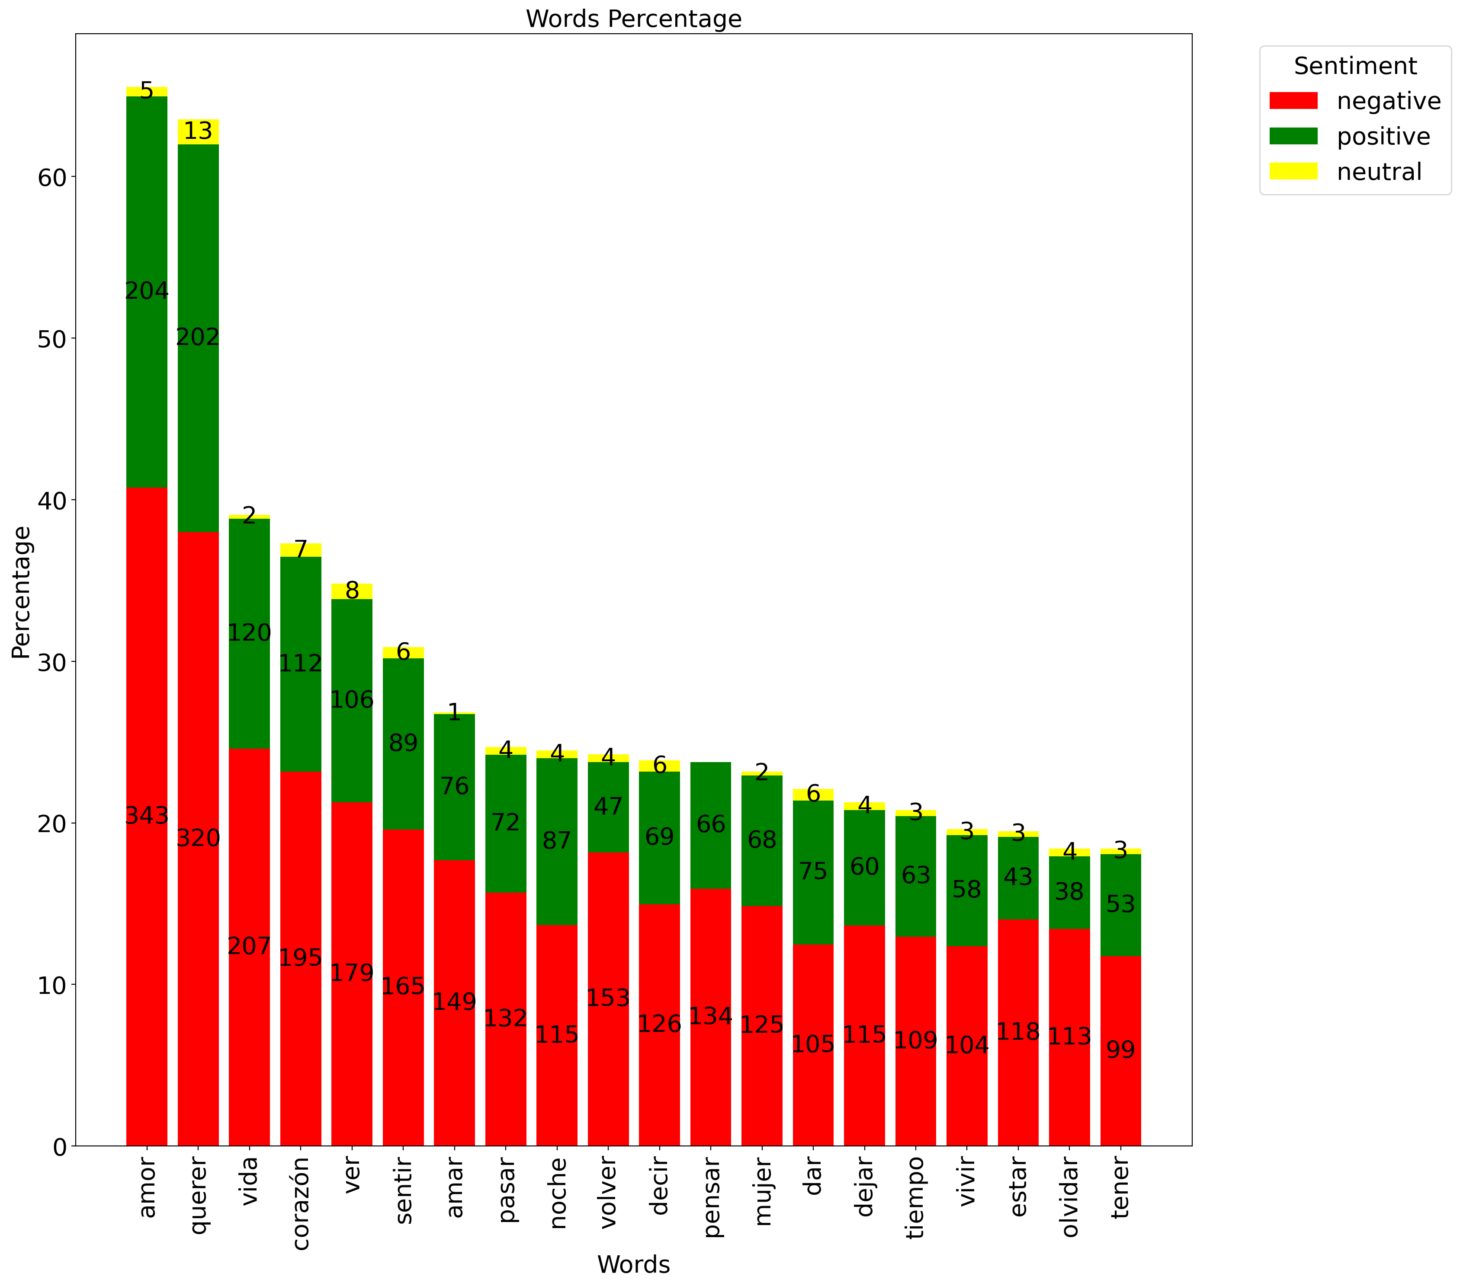
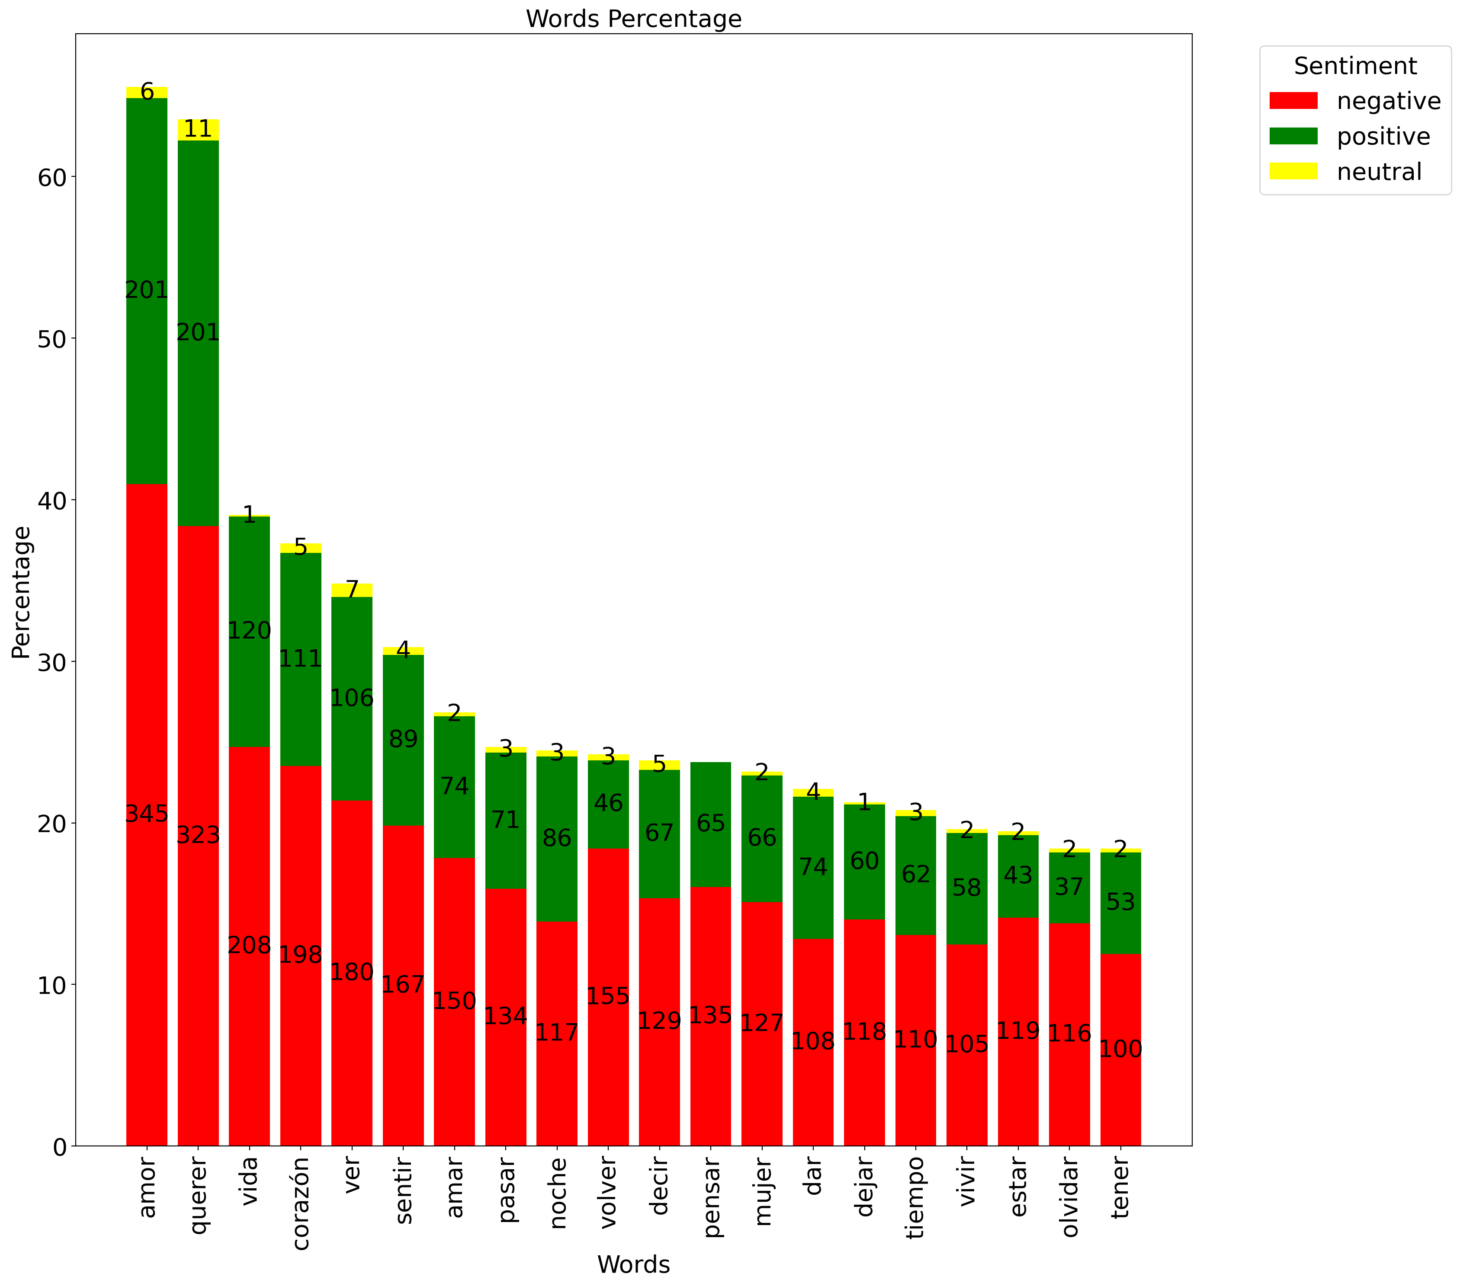
change conclusion

diff --git a/crawler/gui_dir/gui_helper.py b/crawler/gui_dir/gui_helper.py
@@ -38,8 +38,10 @@ def plot_top_percentage(
     else:
         sentiment_colors = top_df["Sentiment"].map(sentiment_colors).fillna('gray')
 
+    fig, ax = plt.subplots()
+
     # Create the bar plot
-    bars = plt.bar(top_df.iloc[:, 0], top_df["Percentage"], color=sentiment_colors)
+    bars = ax.bar(top_df.iloc[:, 0], top_df["Percentage"], color=sentiment_colors)
 
     # Add annotations to each bar
     if annot_bar:
@@ -52,16 +54,15 @@ def plot_top_percentage(
                 ha="center",
                 va="bottom",
             )
-
-    plt.xlabel(x_label)
-    plt.ylabel("Percentage")
-    plt.title(title)
+    ax.set_xlabel(x_label)
+    ax.set_ylabel("Percentage")
+    ax.set_title(title)
 
     if rotation != 0:
         plt.xticks(rotation=rotation)
 
     plt.tight_layout()
-    st.pyplot(plt)
+    st.pyplot(fig)
     plt.close()
 
 
@@ -156,13 +157,14 @@ def plot_top_samples_with_sentiments(
         plt.xticks(rotation=rotation)
 
     plt.tight_layout()
-    st.pyplot(plt)
+    st.pyplot(fig)
     plt.close()
 
 
 def wordcloud_func(df):
-    words_dict = df.set_index("norm_words")["Frequency"].to_dict()
-    wordcloud = WordCloud(width=800, height=400, background_color="white")
+    words_dict = df.set_index("norm_unique_words")["Frequency"].to_dict()
+    #wordcloud = WordCloud(width=800, height=400, background_color="white")
+    wordcloud = WordCloud(background_color="white")
     wordcloud.generate_from_frequencies(words_dict)
     
     fig, ax = plt.subplots()
@@ -245,7 +247,7 @@ def gui_template(
 
     elif analysis_option == "Word":
         st.markdown(
-            '<h4 style="font-size:15px;text-align: center;">Normalized word form distribution</h4>',
+            '<h4 style="font-size:15px;text-align: center;">Normalized unique word form distribution</h4>',
             unsafe_allow_html=True,
         )
         st.write(explain_words)
@@ -266,7 +268,6 @@ def gui_template(
         #    rotation=90,
         #    samples_num=20
         #)
-        print('word:::',word_insight)
         st.subheader("Conclusions")
         st.markdown(word_insight)
 

diff --git a/crawler/conclusions_dir/general_conclusions.py b/crawler/conclusions_dir/general_conclusions.py
@@ -13,8 +13,8 @@ GENERAL_WORD_INSIGHT ="""
         - While the precise meaning of the text may not be immediately apparent from the words alone, the context and sentiment conveyed through key terms like "dejar" ("leave"), "volver" ("return"), "morir" ("die"), and "olvidar" ("forget") suggest an underlying theme of loss — most likely the loss of love. 
         - To fully comprehend the song, in addition to understanding its grammar, one needs to have a familiarity with an average of 55 words.
 
-        Since the following conclusions rely on sentiment allocations and are easier to deduce when sentiment is displayed within the bars, a plot has been added under the "images/general" directory, named "unique_word_with_sentiment."  This plot was pre-generated because creating it in real time would increase processing time by 11.5 times.
-        - When the artists think ("pensar"), the word usually (~80%) exists in songs with a negative sentiment, it may be more beneficial for them to refrain from such contemplation.
+        Since the following conclusions rely on sentiment allocations and are easier to deduce when sentiment is displayed within the bars, a plot has been added under the "images/general" directory, named "unique_word_with_sentiment". This plot was pre-generated because creating it in real time would increase processing time by 11.5 times.
+        - When the artists think ("pensar"), the word usually (~67%) exists in songs with a negative sentiment, it may be more beneficial for them to refrain from such contemplation.
         - The word "vida" ("life") has approximately a 63% probability of being used in songs with negative sentiment. This may suggests that batchata singers have negative emotional themes in their lives.
         """
 

diff --git a/crawler/statistics_dir/statistics.py b/crawler/statistics_dir/statistics.py
@@ -10,14 +10,12 @@ sys.path.append(parent_dir)
 
 
 def general_statistics(df):       
-    try:
-        df.loc[:, "all_artists"] = df["all_artists"].apply(lambda x: eval(x))
-    except (TypeError, NameError, SyntaxError) as e:
-        pass
+    eval_col(df, "all_artists")
+    eval_col(df, "norm_unique_words")
 
     artist_stat, artist_stat_len = calculate_counts_with_sentiment(df, "all_artists", "selected_sentiment")
-    norm_words_stat_freq = calculate_counts(df, "norm_words") 
-    # norm_words_stat_freq_sent = calculate_counts_with_sentiment(df, "norm_unique_words", "selected_sentiment")
+    norm_words_stat_freq = calculate_counts(df, "norm_unique_words") 
+    #norm_words_stat_freq_sent, _ = calculate_counts_with_sentiment(df, "norm_unique_words", "selected_sentiment")
     gt_stat = calc_general_themes_counts(df, "general_theme")
     sentiment_single_dist = dist_single_sentiment(df, "selected_sentiment")
     sentiment_avg_dist = dist_avg_sentiment(df, "sentiment")
@@ -27,7 +25,7 @@ def general_statistics(df):
         artist_stat,
         artist_stat_len,
         norm_words_stat_freq,
-        # norm_words_stat_freq_sent,
+        #norm_words_stat_freq_sent,
         gt_stat,
         sentiment_single_dist,
         sentiment_avg_dist,
@@ -41,7 +39,7 @@ def artist_statistics(df, artist_name):
     df_artist = df_expanded[df_expanded["all_artists"] == artist_name]
 
     # df['norm_words'] = df_artist['norm_words'].apply(lambda x: eval(x))
-    norm_words_stat = calculate_counts(df_artist, "norm_words")
+    norm_words_stat = calculate_counts(df_artist, "norm_unique_words")
 
     num_songs_per_artist = len(df_artist)
     sentiment_single_dist = dist_single_sentiment(df_artist, "selected_sentiment")

diff --git a/crawler/config.py b/crawler/config.py
@@ -93,7 +93,7 @@ SENTIMENT = ["negative", "positive", "neutral"]
 
 
 ####### Graph explanation
-G_EXPLAIN_WORDS = 'This graph illustrates the percentage of normalized word forms (e.g., quero/quise → querer), with the normalized word frequencies displayed above each bar.'
+G_EXPLAIN_WORDS = 'This graph presents the percentage of normalized unique word forms. Normalization refers to grouping variations of a word (e.g., "quero/quise" as forms of "querer"). Each unique word form, regardless of its frequency in a song, is counted only once. The unique normalized word frequencies are displayed above each corresponding bar.'
 G_EXPLAIN_SENTIMENTS = 'The percentage of phrases categorized as "negative," "positive," or "neutral" is recorded for each song.\n* "Average Sentiment Percentage": This represents the average of these sentiment percentages across all songs.\n* "Single Sentiment Percentage": Each song is classified based on its predominant sentiment and the percentage reflects the distribution of these predominant sentiments across the entire collection of songs.'
 
 G_EXPLAIN_ARTISTS = 'The percentage of songs and their corresponding sentiments for each artist, with frequencies displayed above each bar.'

diff --git a/crawler/gui_dir/gui.py b/crawler/gui_dir/gui.py
@@ -53,7 +53,7 @@ if options == "General":
     )
 
 if options == "Known Sentiment":
-    sentiment_options = st.sidebar.radio("Select ", ["Positive", "Negative", "Neutral"])
+    sentiment_options = st.sidebar.radio("Select ", ["Positive", "Negative"])
     sen_title = f"{sentiment_options.upper()} SENTIMENT STATISTICS"
     df_sentiment = df[df["selected_sentiment"] == sentiment_options.lower()]
 

diff --git a/crawler/statistics_dir/statistics_helper.py b/crawler/statistics_dir/statistics_helper.py
@@ -2,6 +2,12 @@ import numpy as np
 import pandas as pd
 
 
+def eval_col(df, col_name):
+    try:
+        df.loc[:, col_name] = df[col_name].apply(lambda x: eval(x))
+    except (TypeError, NameError, SyntaxError) as e:
+        pass
+
 def calculate_counts(df, col):
     df_expanded = df.explode(col)
 
